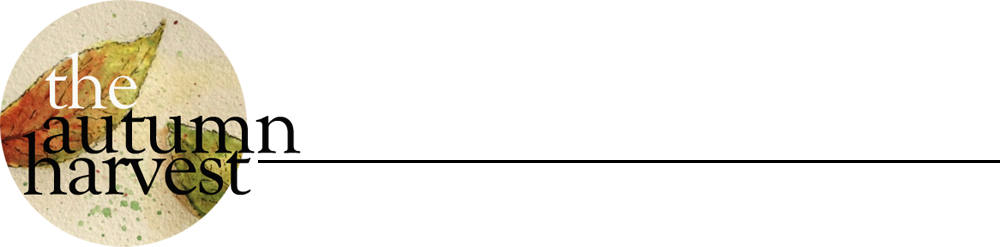
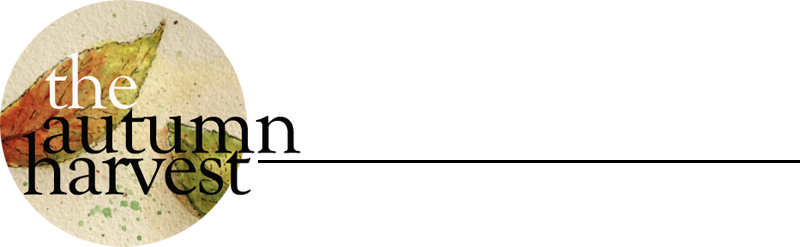
changed header image to be less wide

Changed region(s): [[0.0, 0.0, 0.375, 1.0]]

diff --git a/round2/css/style.css b/round2/css/style.css
@@ -8,25 +8,29 @@ a {
   color: #000000; }
 
 p {
-  font-size: 13px; }
+  font-size: 14px; }
 
-a:hover {
+li#about a:hover {
   color: #a13d1c; }
+
+li#tutorials a:hover {
+  color: #888533; }
+
+li#archives a:hover {
+  color: #dba40d; }
 
 span.cursive {
   font-family: "Cedarville Cursive", cursive;
   font-size: 20px; }
 
 header {
-  background-image: url("../img/autumncircle-lines3.png");
+  background: url("../img/autumncircle-lines3.png") no-repeat center top;
   height: 271px;
   width: 1000px;
-  background-repeat: no-repeat;
-  background-position: left top;
   margin: 0 auto;
   margin-top: 23px; }
   header ul {
-    padding: 126px 0 0 680px;
+    padding: 126px 0 0 579px;
     position: relative; }
     header ul li {
       float: left;
@@ -50,12 +54,16 @@ header {
     -moz-border-radius: 2px;
     border-radius: 2px; }
     #main #left .post {
-      margin-left: 40px; }
+      margin-left: 40px;
+      width: 680px;
+      border-bottom: 1px solid #a13d1c;
+      padding-bottom: 30px; }
       #main #left .post p {
         width: 650px;
         margin: 0; }
       #main #left .post p.date {
-        margin-top: 40px; }
+        margin-top: 40px;
+        font-size: 12px; }
       #main #left .post p.content {
         margin-bottom: 30px; }
       #main #left .post h1 {
@@ -91,5 +99,6 @@ header {
     float: left; }
   .about #content p#about {
     float: left;
-    width: 500px;
-    margin: 70px 0 0 30px; }
+    width: 400px;
+    margin: 70px 0 0 30px;
+    font-size: 14px; }

diff --git a/round2/css/style.scss b/round2/css/style.scss
@@ -14,10 +14,17 @@ a{
     color:#000000;
 }
 p{
-	font-size:13px;
+	font-size:14px;
 }
-a:hover{
+
+li#about a:hover{
     color:$red;
+}
+li#tutorials a:hover{
+    color:#888533;
+}
+li#archives a:hover{
+    color:#dba40d;
 }
 
 span.cursive{
@@ -26,15 +33,13 @@ span.cursive{
 }
 
 header{
-	background-image: url('../img/autumncircle-lines3.png');
+	background: url('../img/autumncircle-lines3.png') no-repeat center top;
     height:271px;
     width:1000px;
-    background-repeat: no-repeat;
-    background-position: left top;
     margin:0 auto;
     margin-top:23px;
     ul{
-    	padding: 126px 0 0 680px;
+    	padding: 126px 0 0 579px;
     	position:relative;
     	li{
     		float:left;
@@ -63,12 +68,16 @@ header{
 	    border-radius: 2px;
 	    .post{
 	    	margin-left:40px;
+	    	width:680px;
+	    	border-bottom:1px solid $red;
+	    	padding-bottom:30px;
 	    	p {
 	    		width:650px;
 	    		margin:0;
 	   	 	}
 		    p.date{
 		   		margin-top:40px;
+		   		font-size:12px;
 		    }
 		    p.content{
 		    	margin-bottom:30px;
@@ -117,8 +126,9 @@ header{
 	    }
 	    p#about{
 	    	float:left;
-	    	width:500px;
+	    	width:400px;
 	    	margin:70px 0 0 30px;
+	    	font-size:14px;
 	    }
 	}
 }
